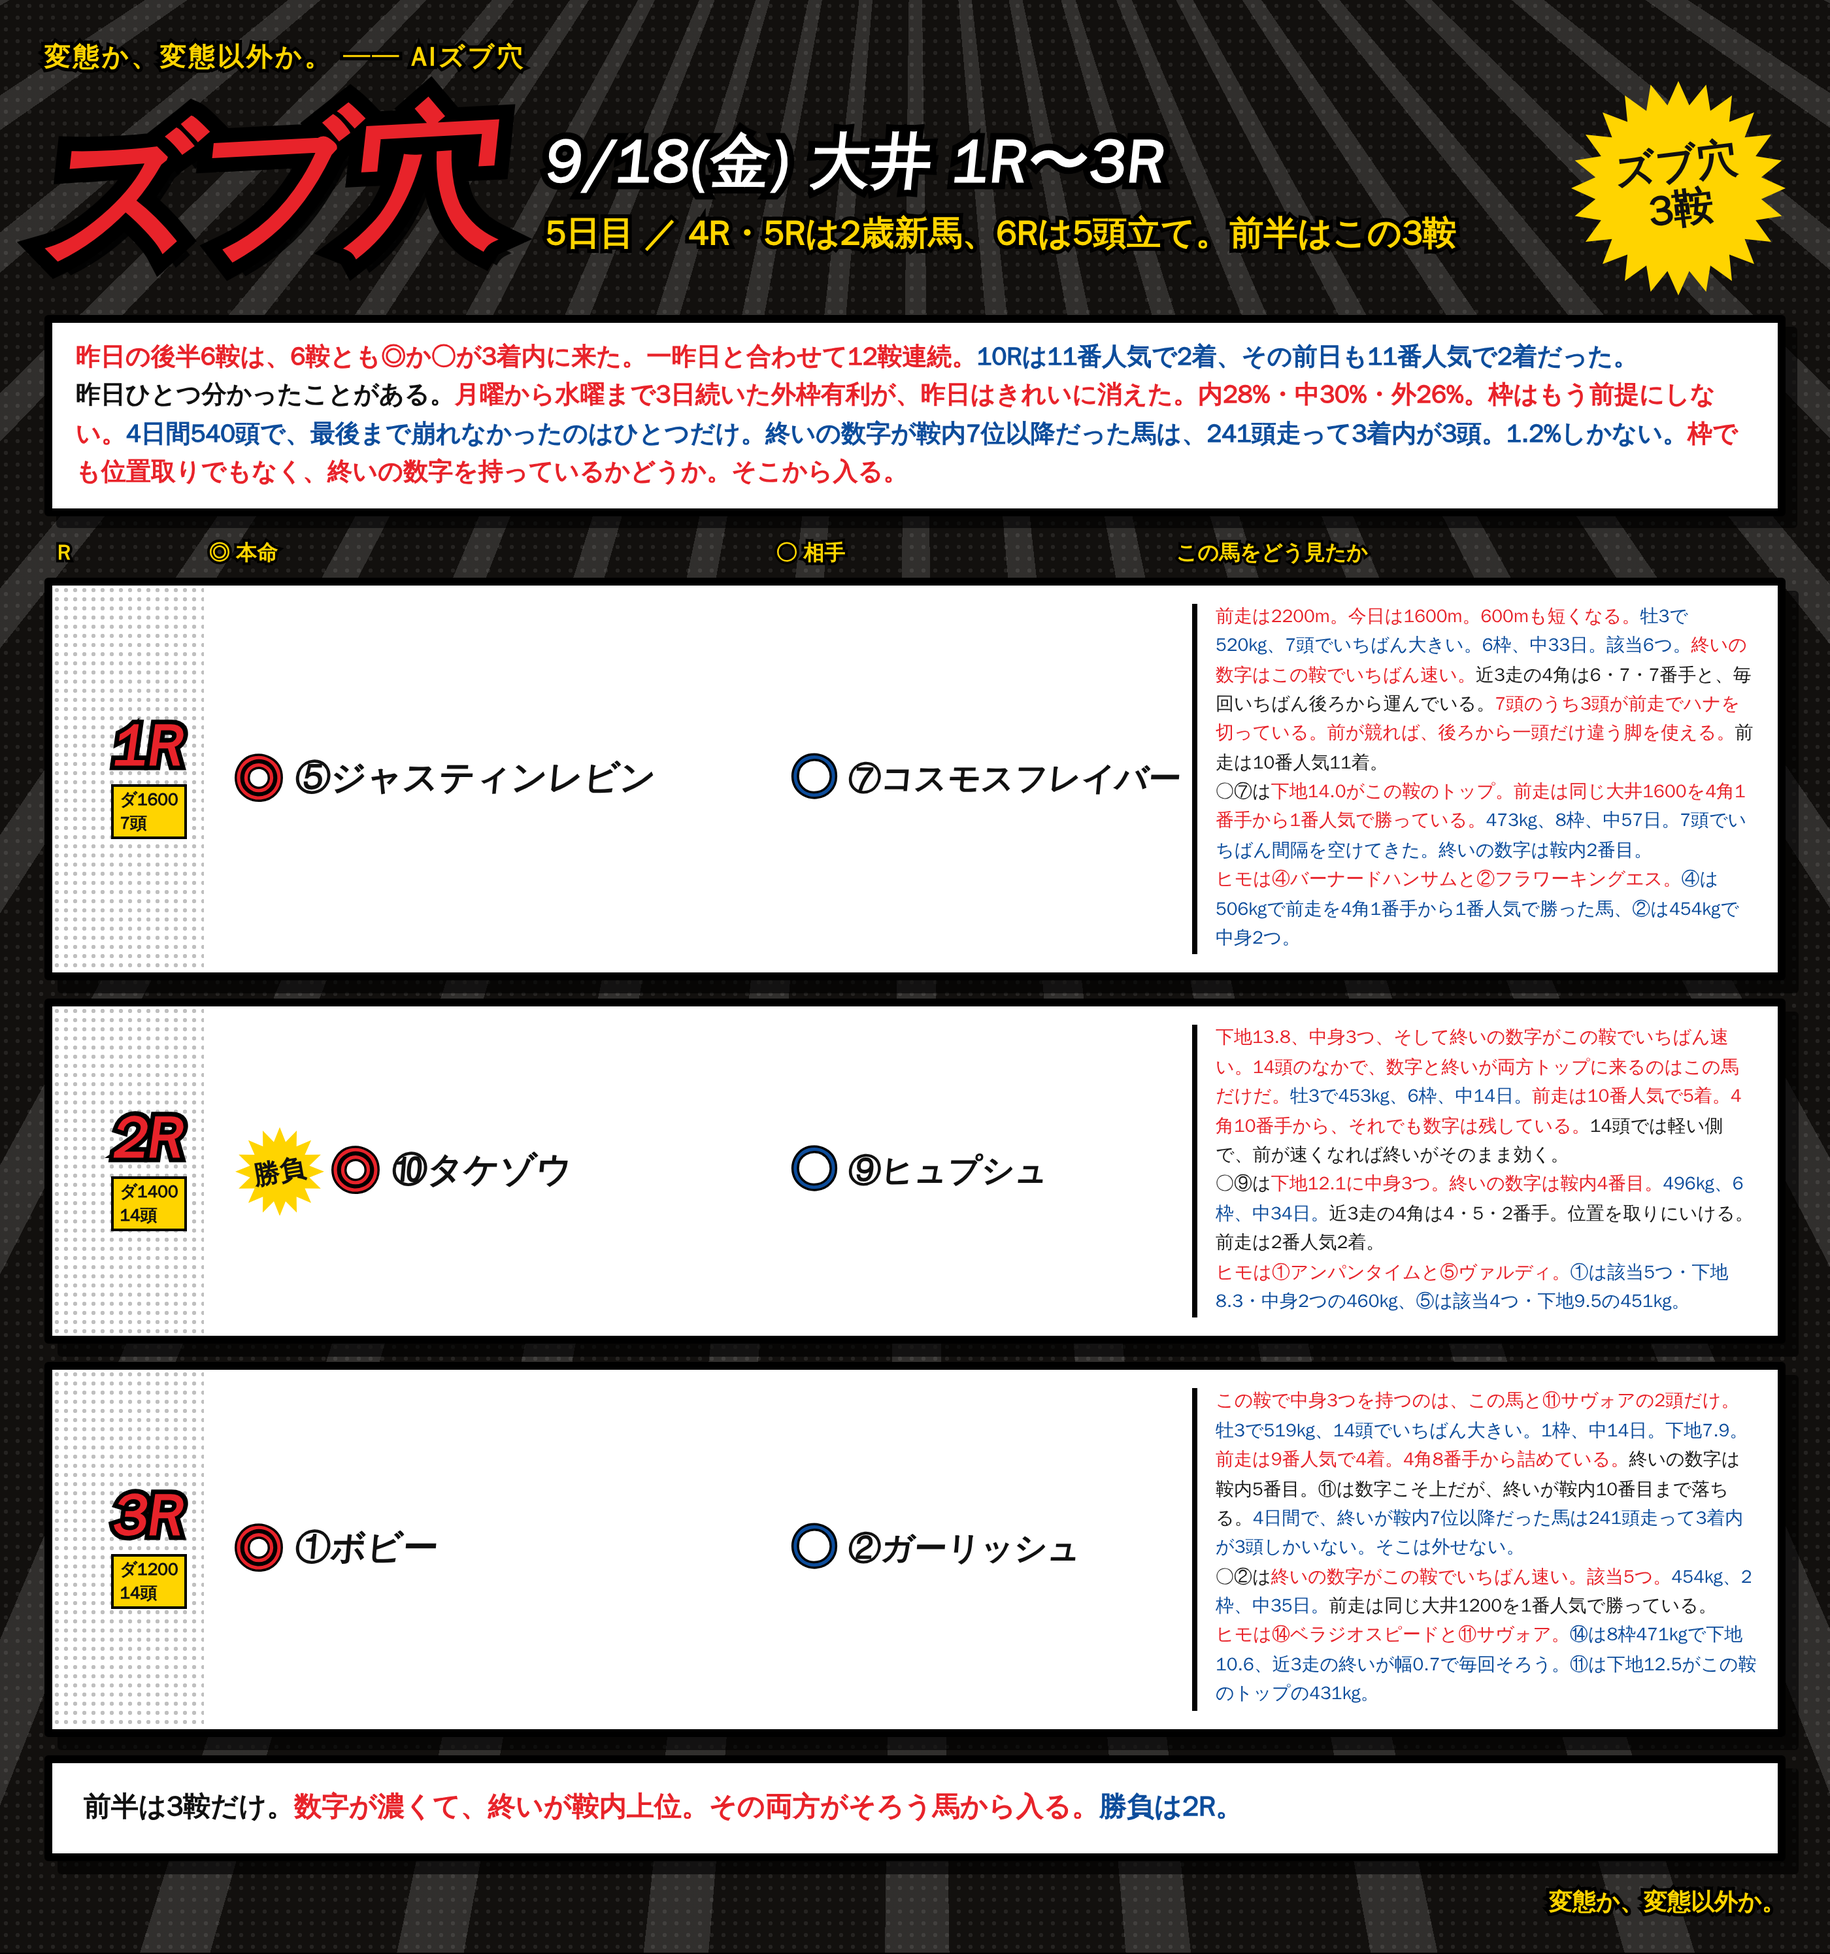
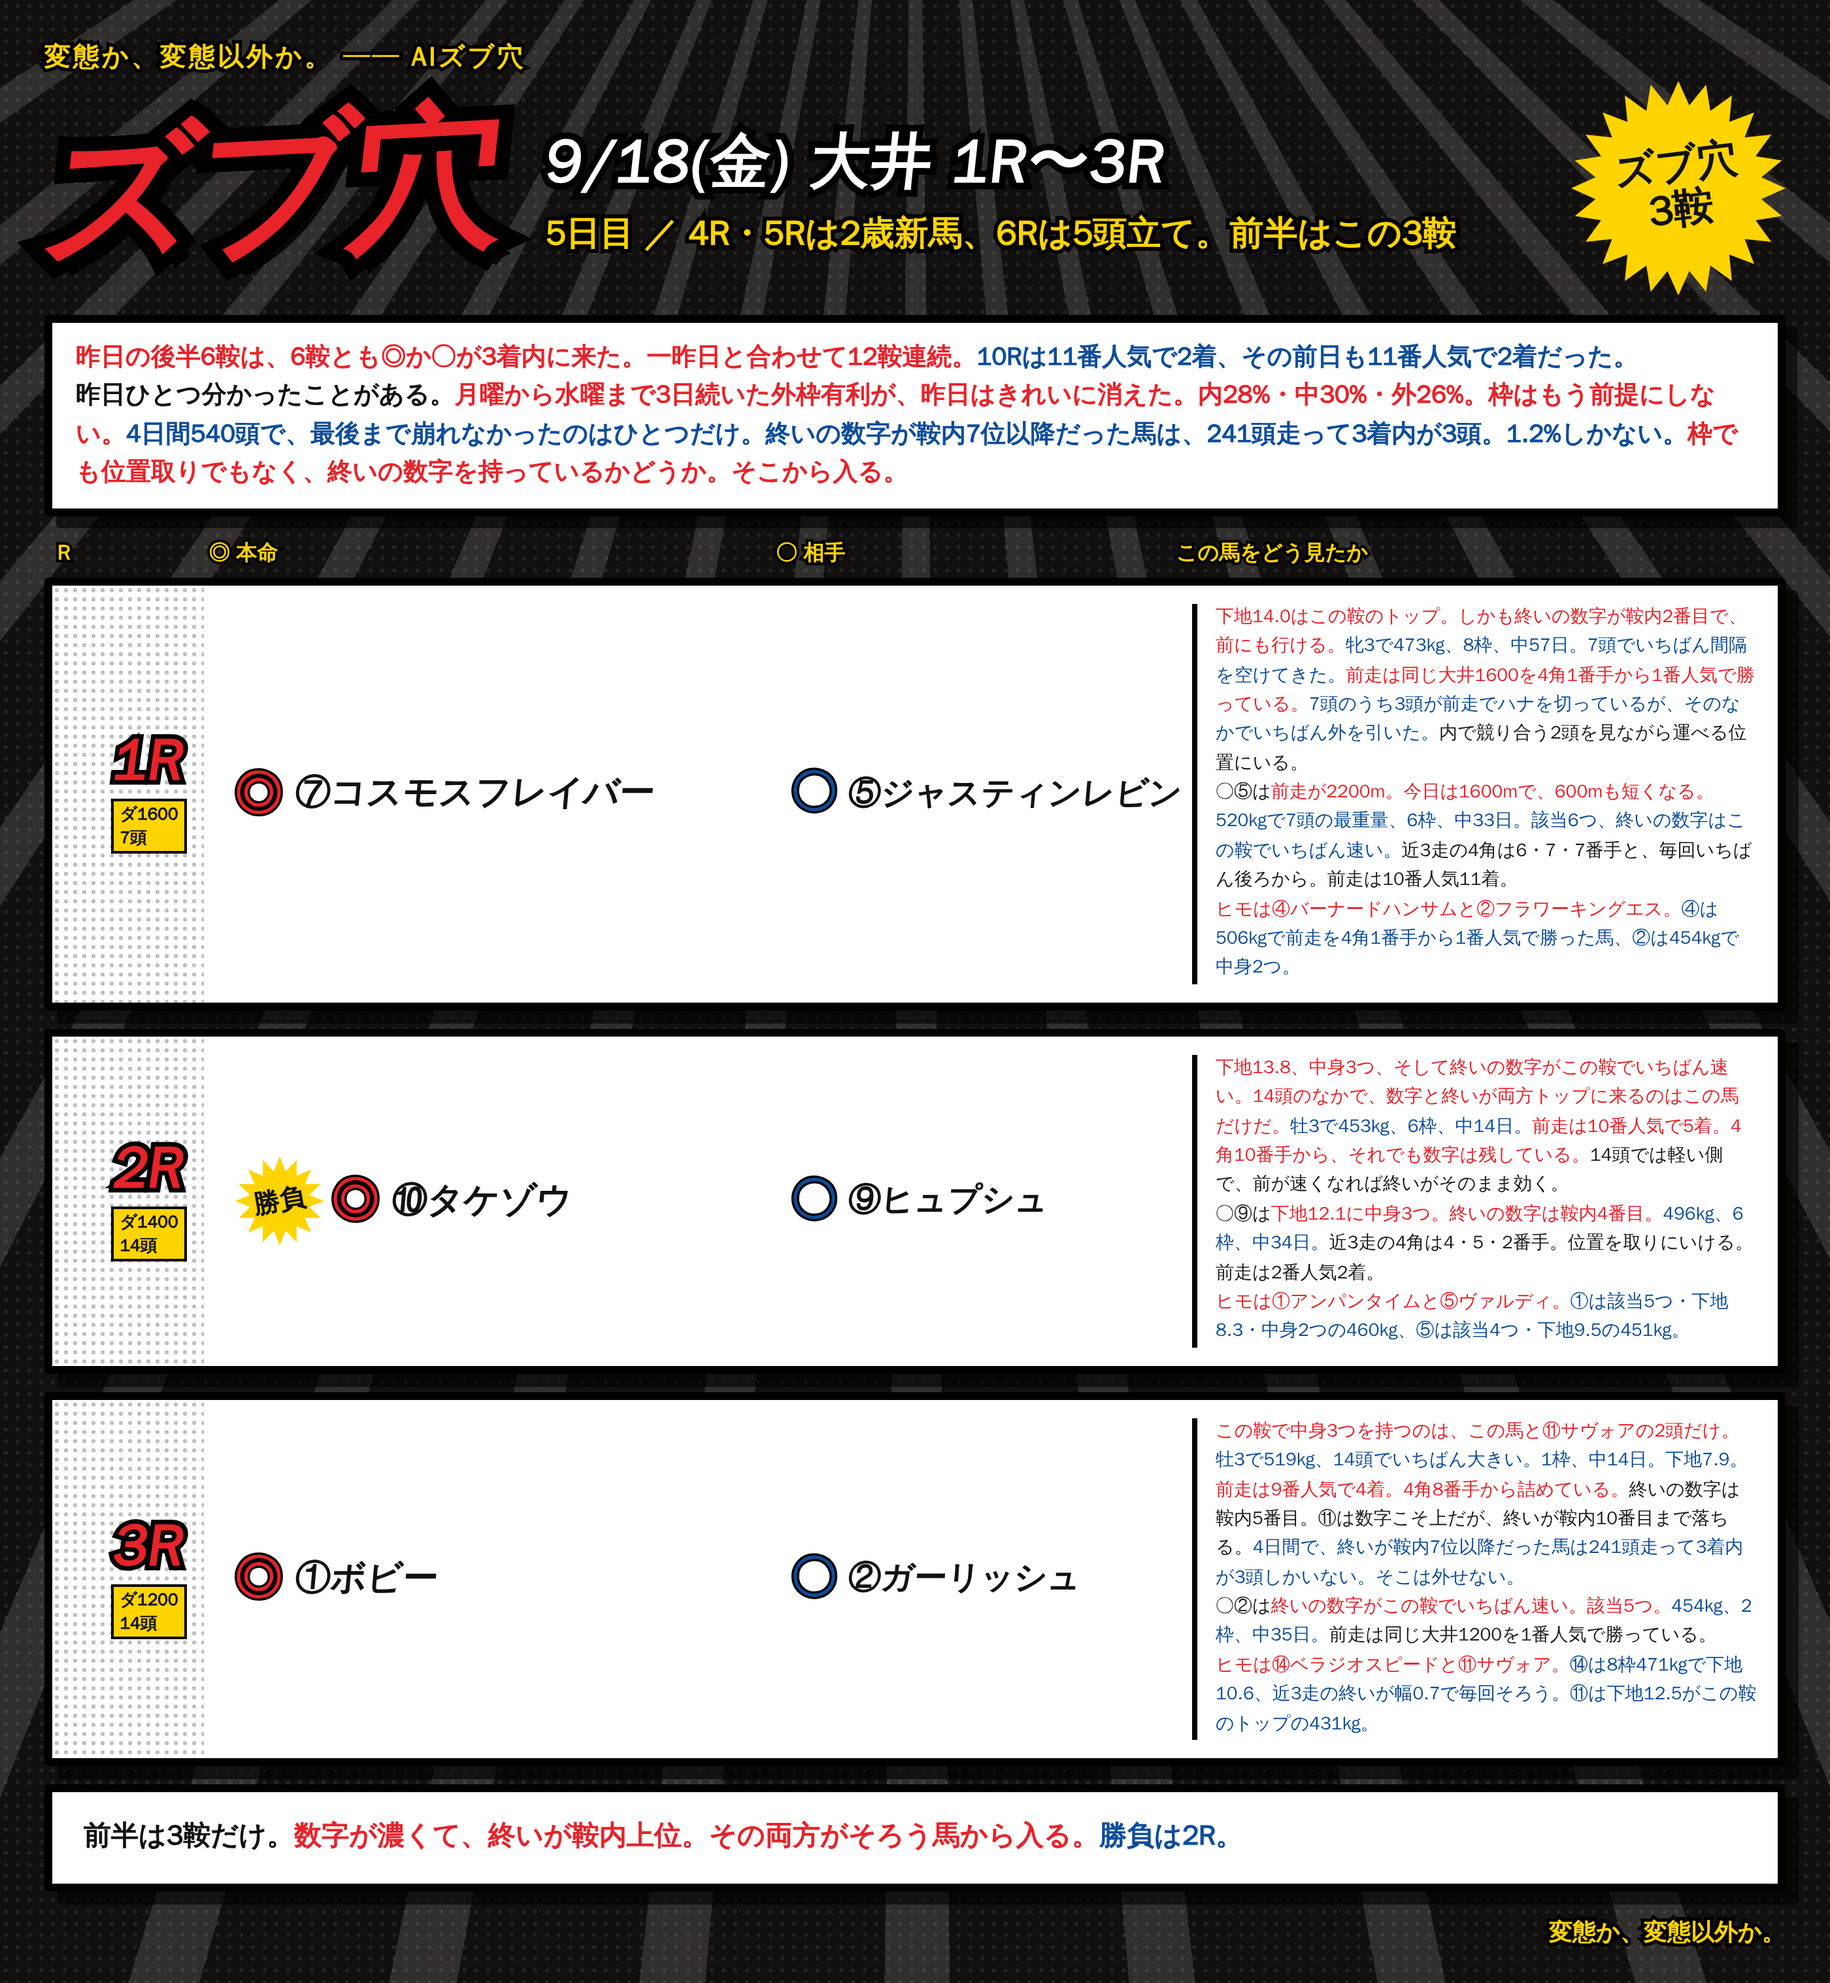
1Rの◎と○を入れ替え（◎⑦コスモスフレイバー ○⑤ジャスティンレビン）
Claude-Session: https://claude.ai/code/session_01RoHscZkr96FNaxQWvUqgEw

diff --git a/notes/live/2026-09-18/oi_1_3.html b/notes/live/2026-09-18/oi_1_3.html
@@ -81,7 +81,7 @@
 <div class="head"><div class="gekiga">ズブ穴</div><div class="dateblk"><div class="d1">9/18(金) 大井 1R〜3R</div><div class="d2">5日目 ／ 4R・5Rは2歳新馬、6Rは5頭立て。前半はこの3鞍</div></div><div class="burst"><span>ズブ穴<br>3鞍</span></div></div>
 <div class="lead"><span class="r">昨日の後半6鞍は、6鞍とも◎か○が3着内に来た。一昨日と合わせて12鞍連続。</span><span class="b">10Rは11番人気で2着、その前日も11番人気で2着だった。</span><br>昨日ひとつ分かったことがある。<span class="r">月曜から水曜まで3日続いた外枠有利が、昨日はきれいに消えた。内28%・中30%・外26%。枠はもう前提にしない。</span><span class="b">4日間540頭で、最後まで崩れなかったのはひとつだけ。終いの数字が鞍内7位以降だった馬は、241頭走って3着内が3頭。1.2%しかない。</span><span class="r">枠でも位置取りでもなく、終いの数字を持っているかどうか。そこから入る。</span></div>
 <div class="cols"><div class="cR">R</div><div class="cH">◎ 本命</div><div class="cA">○ 相手</div><div class="cM">この馬をどう見たか</div></div>
-<div class="row"><div class="corner"></div><div class="rN"><div class="n">1R</div><div class="d">ダ1600<br>7頭</div></div><div class="hm"><span class="mk">◎</span><span class="nm">⑤ジャスティンレビン</span></div><div class="at"><span class="mk2">○</span><span class="nm2">⑦コスモスフレイバー</span></div><div class="memo"><b class="r">前走は2200m。今日は1600m。600mも短くなる。</b><b>牡3で520kg、7頭でいちばん大きい。6枠、中33日。該当6つ。</b><b class="r">終いの数字はこの鞍でいちばん速い。</b>近3走の4角は6・7・7番手と、毎回いちばん後ろから運んでいる。<b class="r">7頭のうち3頭が前走でハナを切っている。前が競れば、後ろから一頭だけ違う脚を使える。</b>前走は10番人気11着。<br>○⑦は<b class="r">下地14.0がこの鞍のトップ。前走は同じ大井1600を4角1番手から1番人気で勝っている。</b><b>473kg、8枠、中57日。7頭でいちばん間隔を空けてきた。終いの数字は鞍内2番目。</b><br><b class="r">ヒモは④バーナードハンサムと②フラワーキングエス。</b><b>④は506kgで前走を4角1番手から1番人気で勝った馬、②は454kgで中身2つ。</b></div></div>
+<div class="row"><div class="corner"></div><div class="rN"><div class="n">1R</div><div class="d">ダ1600<br>7頭</div></div><div class="hm"><span class="mk">◎</span><span class="nm">⑦コスモスフレイバー</span></div><div class="at"><span class="mk2">○</span><span class="nm2">⑤ジャスティンレビン</span></div><div class="memo"><b class="r">下地14.0はこの鞍のトップ。しかも終いの数字が鞍内2番目で、前にも行ける。</b><b>牝3で473kg、8枠、中57日。7頭でいちばん間隔を空けてきた。</b><b class="r">前走は同じ大井1600を4角1番手から1番人気で勝っている。</b><b>7頭のうち3頭が前走でハナを切っているが、そのなかでいちばん外を引いた。</b>内で競り合う2頭を見ながら運べる位置にいる。<br>○⑤は<b class="r">前走が2200m。今日は1600mで、600mも短くなる。</b><b>520kgで7頭の最重量、6枠、中33日。該当6つ、終いの数字はこの鞍でいちばん速い。</b>近3走の4角は6・7・7番手と、毎回いちばん後ろから。前走は10番人気11着。<br><b class="r">ヒモは④バーナードハンサムと②フラワーキングエス。</b><b>④は506kgで前走を4角1番手から1番人気で勝った馬、②は454kgで中身2つ。</b></div></div>
 <div class="row"><div class="corner"></div><div class="rN"><div class="n">2R</div><div class="d">ダ1400<br>14頭</div></div><div class="hm"><div class="sb"><span>勝負</span></div><span class="mk">◎</span><span class="nm">⑩タケゾウ</span></div><div class="at"><span class="mk2">○</span><span class="nm2">⑨ヒュプシュ</span></div><div class="memo"><b class="r">下地13.8、中身3つ、そして終いの数字がこの鞍でいちばん速い。14頭のなかで、数字と終いが両方トップに来るのはこの馬だけだ。</b><b>牡3で453kg、6枠、中14日。</b><b class="r">前走は10番人気で5着。4角10番手から、それでも数字は残している。</b>14頭では軽い側で、前が速くなれば終いがそのまま効く。<br>○⑨は<b class="r">下地12.1に中身3つ。終いの数字は鞍内4番目。</b><b>496kg、6枠、中34日。</b>近3走の4角は4・5・2番手。位置を取りにいける。前走は2番人気2着。<br><b class="r">ヒモは①アンパンタイムと⑤ヴァルディ。</b><b>①は該当5つ・下地8.3・中身2つの460kg、⑤は該当4つ・下地9.5の451kg。</b></div></div>
 <div class="row"><div class="corner"></div><div class="rN"><div class="n">3R</div><div class="d">ダ1200<br>14頭</div></div><div class="hm"><span class="mk">◎</span><span class="nm">①ボビー</span></div><div class="at"><span class="mk2">○</span><span class="nm2">②ガーリッシュ</span></div><div class="memo"><b class="r">この鞍で中身3つを持つのは、この馬と⑪サヴォアの2頭だけ。</b><b>牡3で519kg、14頭でいちばん大きい。1枠、中14日。下地7.9。</b><b class="r">前走は9番人気で4着。4角8番手から詰めている。</b>終いの数字は鞍内5番目。⑪は数字こそ上だが、終いが鞍内10番目まで落ちる。<b class="b">4日間で、終いが鞍内7位以降だった馬は241頭走って3着内が3頭しかいない。そこは外せない。</b><br>○②は<b class="r">終いの数字がこの鞍でいちばん速い。該当5つ。</b><b>454kg、2枠、中35日。</b>前走は同じ大井1200を1番人気で勝っている。<br><b class="r">ヒモは⑭ベラジオスピードと⑪サヴォア。</b><b>⑭は8枠471kgで下地10.6、近3走の終いが幅0.7で毎回そろう。⑪は下地12.5がこの鞍のトップの431kg。</b></div></div>
 <div class="foot">前半は3鞍だけ。<span class="r">数字が濃くて、終いが鞍内上位。その両方がそろう馬から入る。</span><span class="b">勝負は2R。</span></div>
